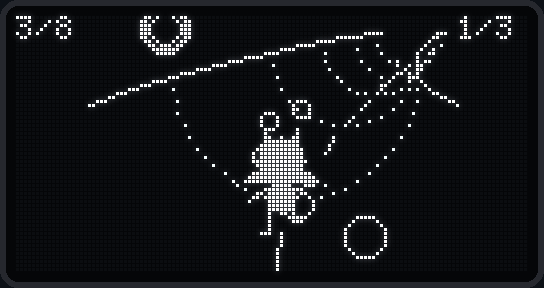
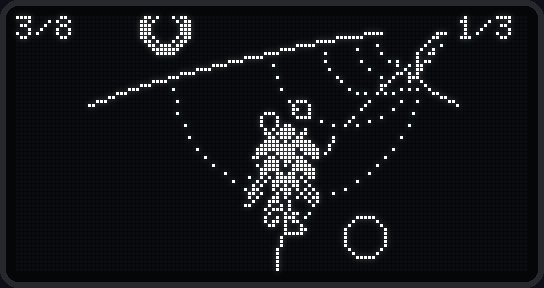
Sonic: Special Stage Sonic from the new back-view reference
- assets/sonic_sprite/reference_special.png decoded (grid fit) into special_back.txt (19x28;
  dim cells = shoes kept, four strays and the line under his feet dropped).
- spDrawSonic draws it rotated to his place on the half-pipe wall by mapping every screen pixel
  back into the bitmap (no holes at any angle), with a dark halo; mirrored every other step for
  the stride. The jump's spin-ball is unchanged.

Claude-Session: https://claude.ai/code/session_01CJ8L3yFWTvggTrx21UwVgr

Changed region(s): [[0.4375, 0.4375, 0.5938, 0.8125]]

diff --git a/sonic_watch/sonic_sprites.h b/sonic_watch/sonic_sprites.h
@@ -474,6 +474,42 @@ static const uint8_t eggShip[2][156] PROGMEM = {
     0x00, 0x00, 0xE0, 0x00, 0x00, 0x00,  //                      ###
   },
 };
+// Special Stage Sonic from behind (special_back.txt):
+static const uint8_t SPB_W = 19;
+static const uint8_t SPB_H = 28;
+static const uint8_t SPB_ROWBYTES = 3;
+static const uint8_t spBack[1][84] PROGMEM = {
+  { // back
+    0x80, 0x01, 0x00,  //        ##
+    0xC8, 0x23, 0x00,  //    #  ####   #
+    0xD8, 0x37, 0x00,  //    ## ##### ##
+    0xB0, 0x1B, 0x00,  //     ## ### ##
+    0x7C, 0x3D, 0x00,  //   ##### # ####
+    0xFE, 0x7F, 0x00,  //  ##############
+    0xDF, 0xFF, 0x00,  // ##### ##########
+    0xCF, 0xE7, 0x00,  // ####  #####  ###
+    0xF3, 0x9B, 0x01,  // ##  ###### ##  ##
+    0xB8, 0x3D, 0x00,  //    ### ## ####
+    0x7C, 0x3D, 0x00,  //   ##### # ####
+    0x7E, 0x7C, 0x00,  //  ######   #####
+    0xCE, 0x66, 0x00,  //  ###  ## ##  ##
+    0xD6, 0x57, 0x02,  //  ## # ##### # #  #
+    0xE8, 0xAF, 0x00,  //    # ####### # #
+    0x64, 0x4D, 0x01,  //   #  ## # ##  # #
+    0xAA, 0x8B, 0x01,  //  # # # ### #   ##
+    0x85, 0x45, 0x03,  // # #    ## #   # ##
+    0x0B, 0x8D, 0x02,  // ## #    # ##   # #
+    0x85, 0x1C, 0x01,  // # #    #  ###   #
+    0x82, 0x12, 0x06,  //  #     # #  #    ##
+    0x80, 0x2E, 0x00,  //        # ### #
+    0x60, 0x11, 0x00,  //      ## #   #
+    0xC0, 0x25, 0x00,  //       ### #  #
+    0x60, 0x2D, 0x00,  //      ## # ## #
+    0x10, 0x19, 0x00,  //     #   #  ##
+    0x18, 0x01, 0x00,  //    ##   #
+    0xF0, 0x01, 0x00,  //     #####
+  },
+};
 enum : uint8_t {
   SPR_STAND = 0, SPR_BLINK = 1, SPR_RUN0 = 2, SPR_RUN1 = 3, SPR_RUN2 = 4, SPR_RUN3 = 5, SPR_FAST0 = 6, SPR_FAST1 = 7, SPR_SKID = 8, SPR_ROLL0 = 9, SPR_ROLL1 = 10, SPR_ROLL2 = 11, SPR_ROLL3 = 12,
   SPR_COUNT = 13

diff --git a/scripts/gen_sonic_sprite.py b/scripts/gen_sonic_sprite.py
@@ -3,6 +3,9 @@
 
   sonic_big.txt  Sonic, in game and on the clock face (from the reference sheet
                  reference_29.webp; see build_big_from_reference.py for how the frames were made)
+  special_back.txt  Sonic from behind, running into the Special Stage half-pipe (from
+                 reference_special.png); drawn rotated to his place on the pipe wall, and mirrored
+                 every other step for the stride
   egg_mobile.txt the Egg Wrecker boss ship with Robotnik, facing right (44x26); the generator
                  also derives its outline (drawn while it flashes after a hit)
 
@@ -53,6 +56,9 @@ outline = [''.join('#' if lit(x, y) and not (lit(x-1, y) and lit(x+1, y) and lit
                    for x in range(EW)) for y in range(EH)]
 out.append('// Egg Wrecker ship (egg_mobile.txt), facing right; row 0 is the dome top:')
 emit(out, 'EGG', 'eggShip', [('ship', rows), ('outline', outline)], EW, EH)
+back, SW, SH = load('special_back.txt')
+out.append('// Special Stage Sonic from behind (special_back.txt):')
+emit(out, 'SPB', 'spBack', back, SW, SH)
 out.append('enum : uint8_t {\n  ' + ', '.join('SPR_%s = %d' % (n.upper(), i) for i, (n, _) in enumerate(big)) + ',\n  SPR_COUNT = %d\n};' % len(big))
 open(OUT, 'w').write('\n'.join(out) + '\n')
 print('wrote %s (%d frames, %dx%d)' % (OUT, len(big), BW, BH))
